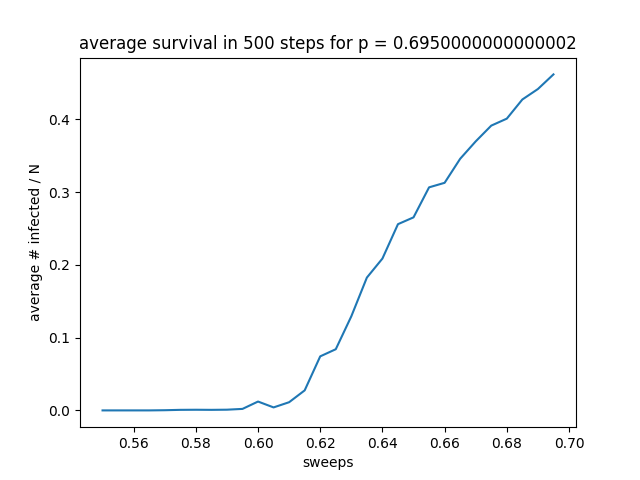
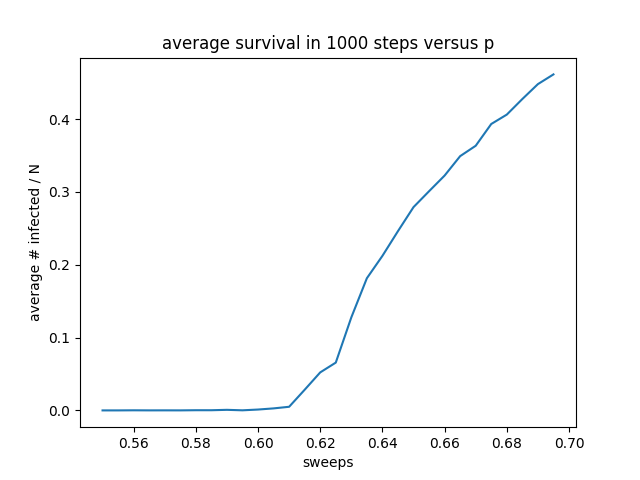
taskd

diff --git a/IR.py b/IR.py
@@ -100,7 +100,7 @@ def taskc():
     p_list = np.arange(0.55, 0.7, 0.005)
     grid_size = 50
 
-    nsteps = 500
+    nsteps = 1000
 
     average_infected_list = []
 
@@ -112,12 +112,17 @@ def taskc():
             grid = update_grid(grid, grid_size, p)
 
             if i > 100:
-                infected_list.append(np.sum(grid == 1)/grid_size**2)
+                total_infected = np.sum(grid == 1)
+                if total_infected != 0:
+                    infected_list.append(total_infected/grid_size**2)
+                else:
+                    infected_list += [0] * (nsteps - i)
+                    break
 
         average_infected_list.append(np.average(infected_list))
 
     plt.plot(p_list, average_infected_list)
-    plt.title(f"average survival in {nsteps} steps for p = {p}")
+    plt.title(f"average survival in {nsteps} steps versus p")
     plt.ylabel("average # infected / N")
     plt.xlabel("sweeps")
     plt.show()
@@ -259,26 +264,6 @@ def taske():
     plt.xscale("log")
     plt.yscale("log")
     plt.legend()
-    plt.show()
-    """Make a line plot of average infected vs immunity in the population.
-    """
-
-    p1, p2, p3 = [0.5, 0.5, 0.5]
-
-    data = np.genfromtxt(
-        f"SIRS_data/immunity_plot.{p1}.{p2}.{p3}.dat",
-        delimiter=",",
-        skip_header=1,
-        dtype=float,
-    )
-    percentages = np.array(data[:, 0])
-    data = np.array(data[:, 1])
-
-    # plot average infection as a function of proportion_immune immune.
-    fig, ax = plt.subplots()
-    ax.errorbar(percentages, data, fmt="x")
-    ax.set_xlabel("Proportion immune")
-    ax.set_ylabel("Average proportion infected over 1000 iterations")
     plt.show()
 
 
